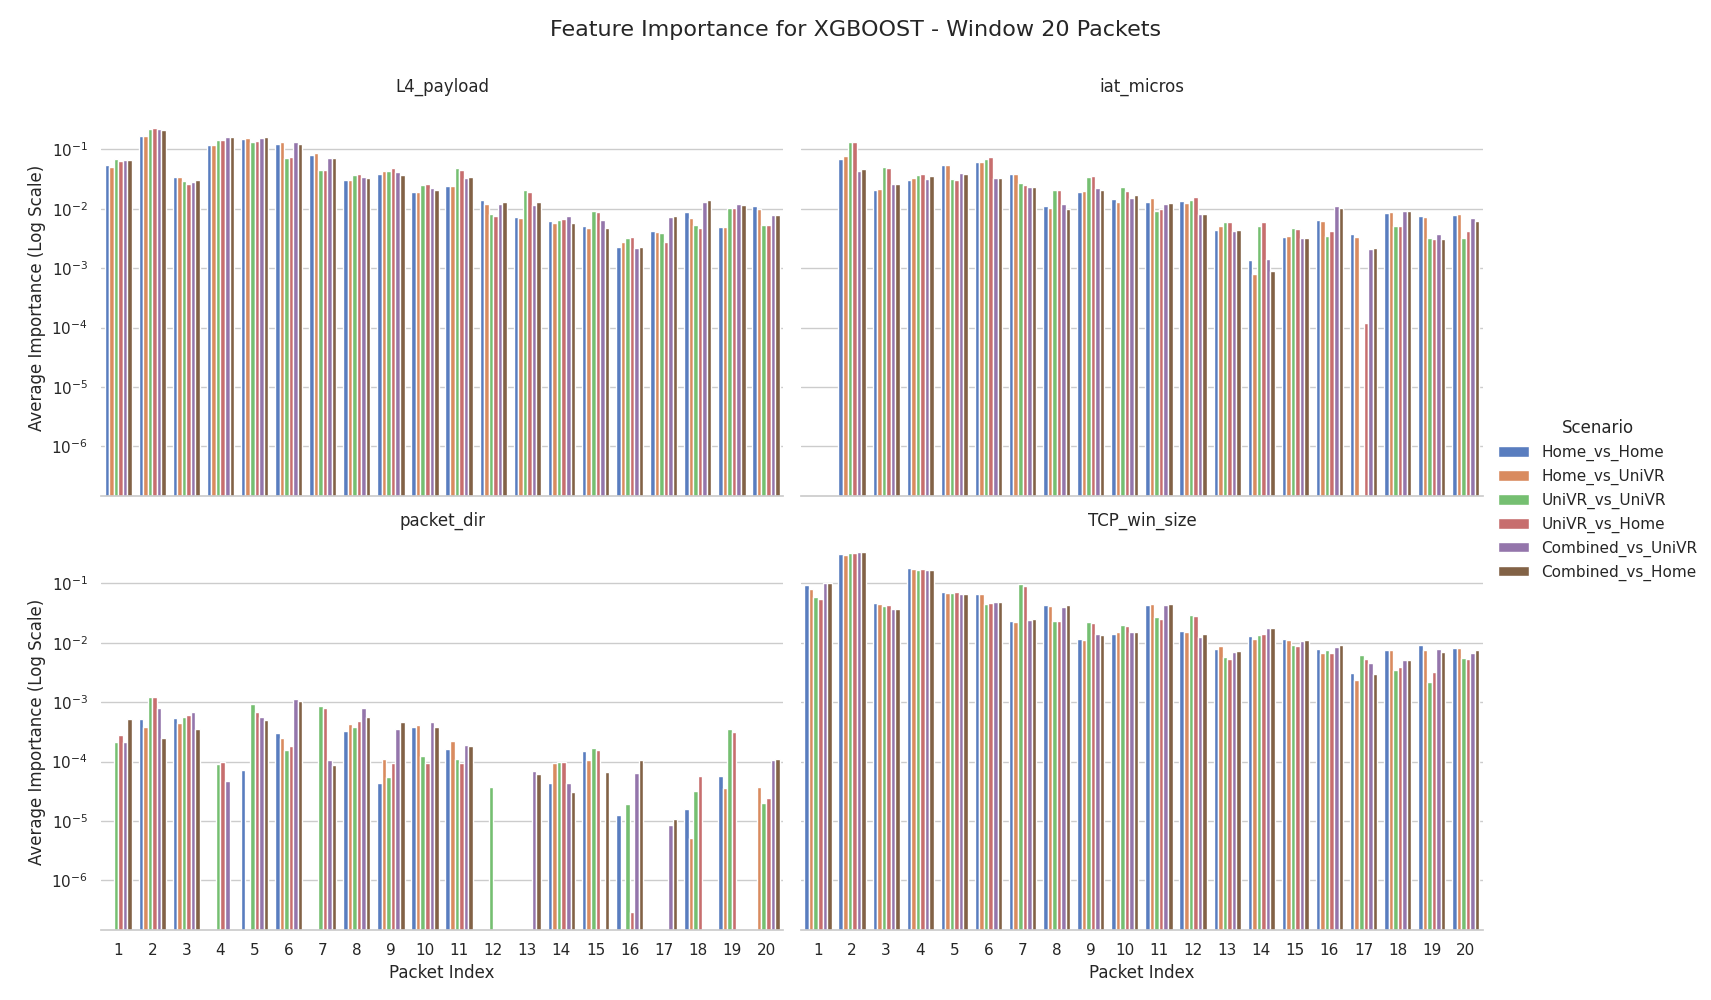
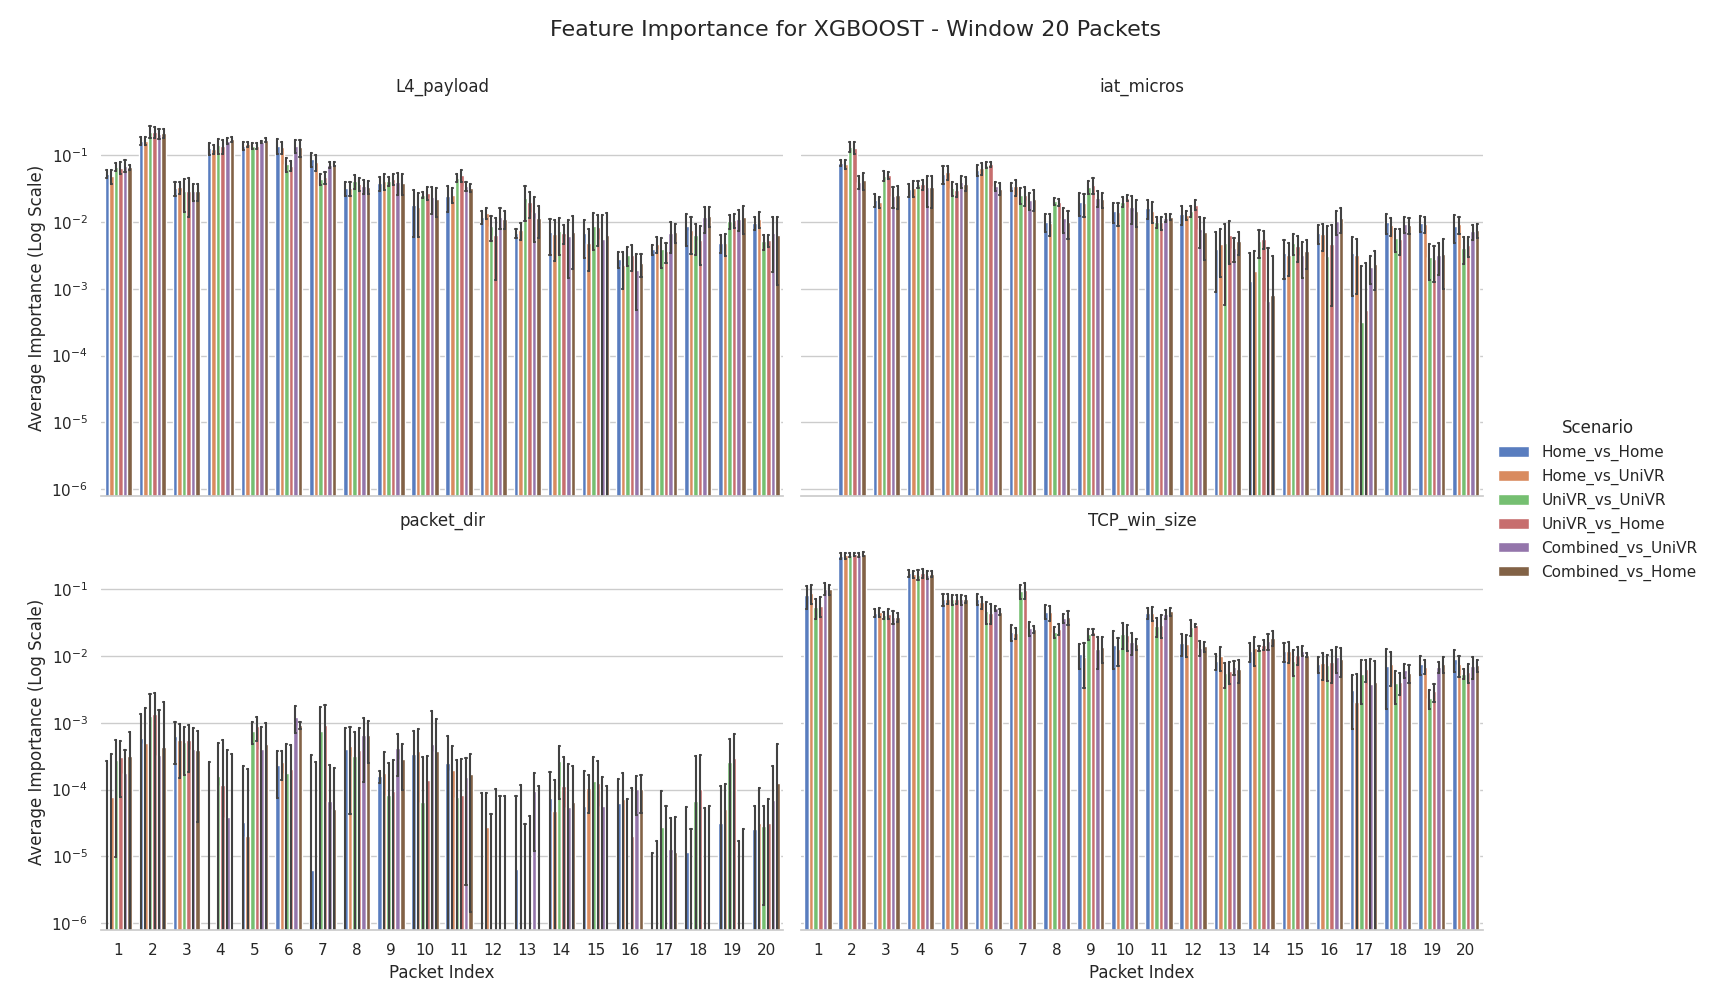
generazione nuovi barplot per importanza feature

diff --git a/analysis.py b/analysis.py
@@ -49,6 +49,8 @@ def plot_combined_importance(model_type, num_packets):
                         height = 5,
                         aspect = 1.5,
                         errorbar = 'sd',
+                        errwidth = 1.5,
+                        capsize = 0.2,
                         palette = "muted")
         g.set_axis_labels("Packet Index", "Average Importance (Log Scale)")
         g.set_titles("{col_name}")
@@ -101,4 +103,4 @@ for model in MODELS:
         plot_combined_importance(model, num_packets)
 plot_combined_importance('knn', 10)
 
-report = perform_comparative_analysis_ttest('rf', 'xgboost', WINDOWS, SCENARIOS_FOR_TTEST)
+#report = perform_comparative_analysis_ttest('rf', 'xgboost', WINDOWS, SCENARIOS_FOR_TTEST)
